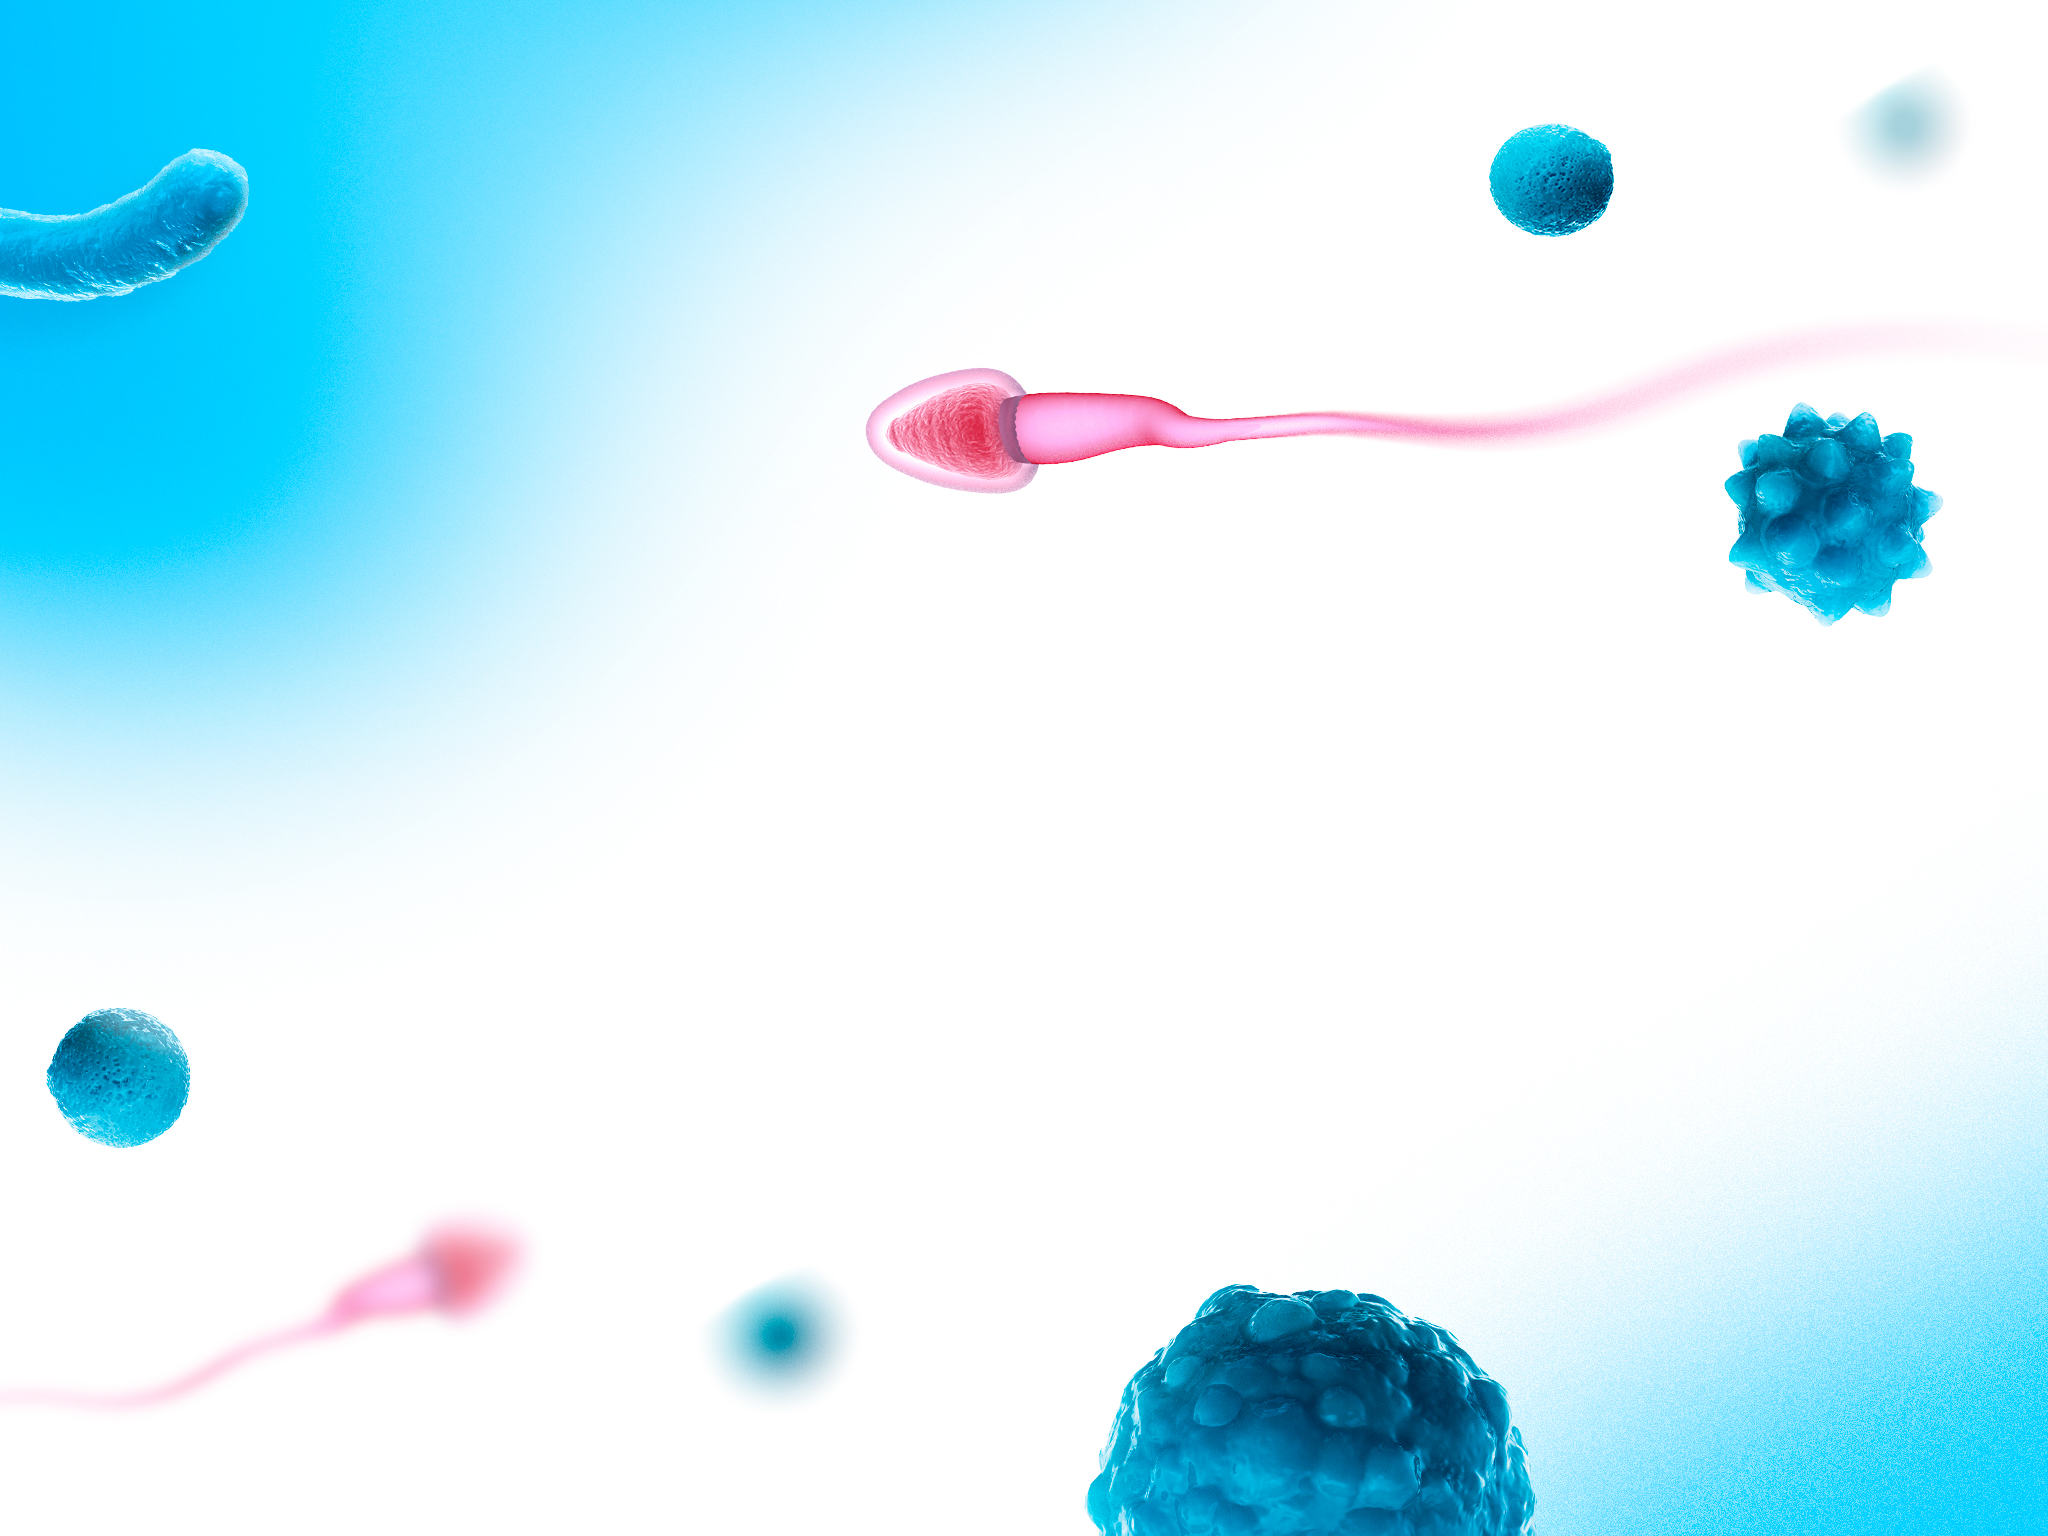
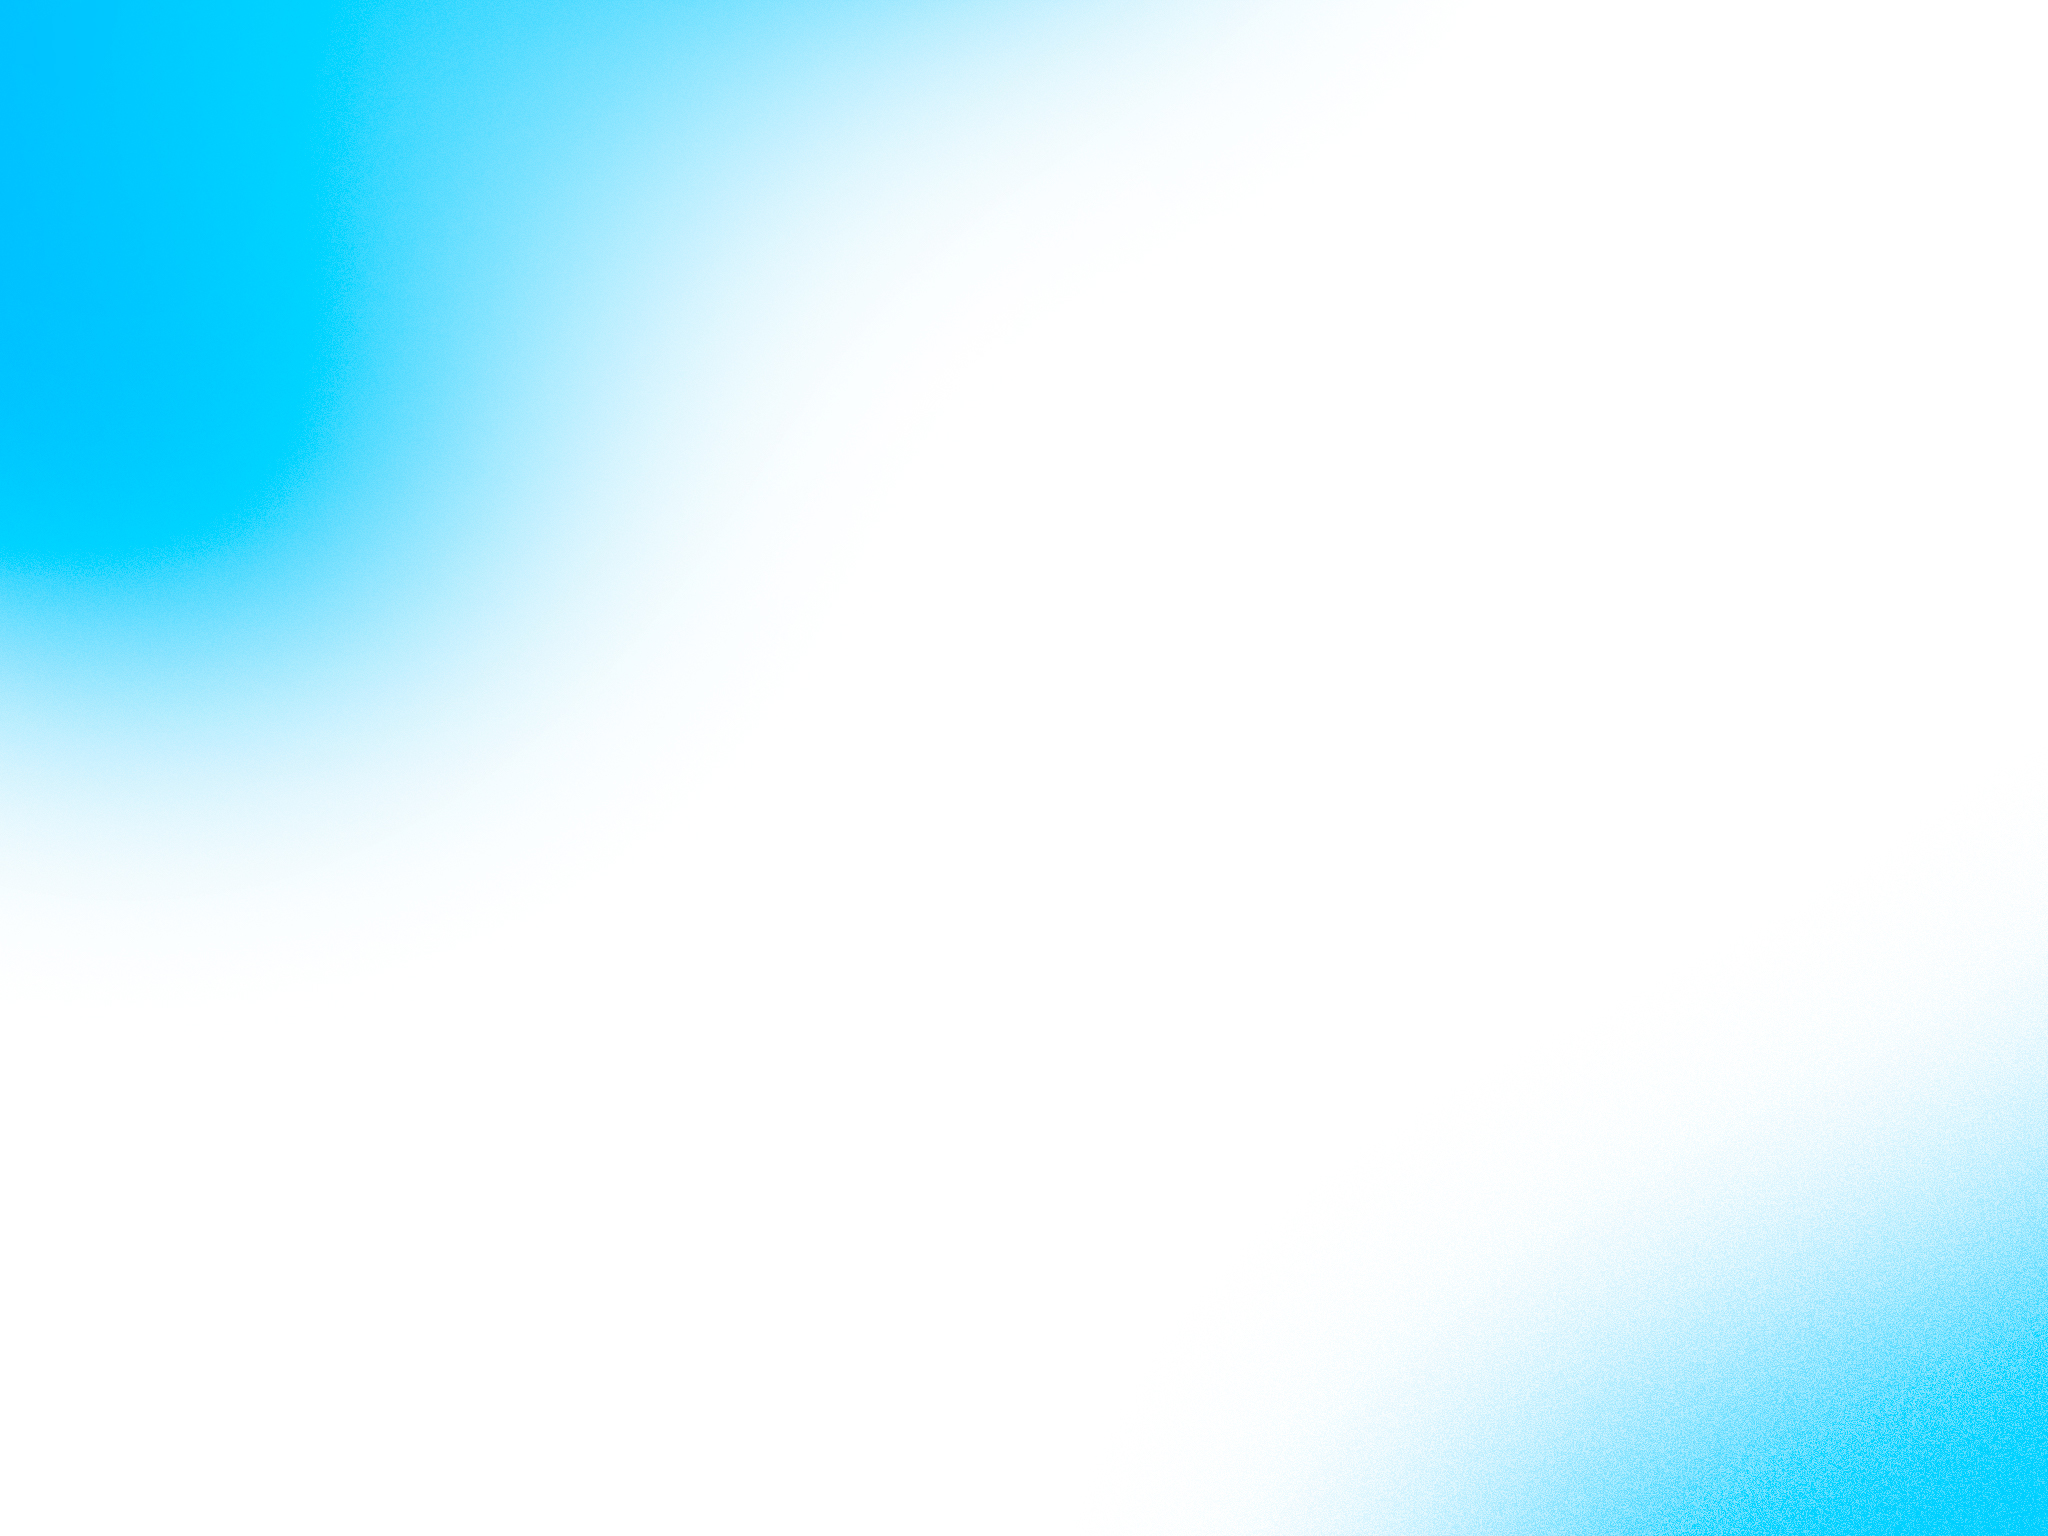
add Home page animation

diff --git a/app/src/pages/Home/Home.module.scss b/app/src/pages/Home/Home.module.scss
@@ -4,6 +4,8 @@
 
 .content {
   padding: 162px 0 0 67px;
+  position: relative;
+  z-index: 30;
 }
 
 .text {
@@ -35,4 +37,119 @@
   position: absolute;
   bottom: 17px;
   right: 109px;
+}
+
+.decorImg {
+  position: absolute;
+
+  animation-duration: 3s;
+  animation-timing-function: linear;
+  animation-iteration-count: infinite;
+  animation-direction: alternate;
+}
+
+.decorImg1 {
+  top: 9%;
+  left: 0;
+  width: 128px;
+}
+
+.decorImg2 {
+  top: 8%;
+  right: 21%;
+  width: 62px;
+
+  animation-name: animDecor2;
+  animation-duration: 4s;
+}
+
+.decorImg3 {
+  top: 4%;
+  right: 3%;
+  width: 71px;
+}
+
+.decorImg4 {
+  top: 20%;
+  right: 0px;
+  z-index: 40;
+  width: 592px;
+}
+
+.decorImg5 {
+  top: 16%;
+  right: 5%;
+  z-index: 50;
+  width: 110px;
+
+  animation-name: animDecor5;
+  animation-duration: 12s;
+  animation-direction: normal;
+}
+
+.decorImg6 {
+  bottom: 25%;
+  left: 2%;
+  width: 73px;
+
+  animation-name: animDecor6;
+}
+
+.decorImg7 {
+  bottom: 0;
+  left: 0;
+  width: 280px;
+}
+
+.decorImg8 {
+  bottom: 8%;
+  left: 34%;
+  width: 85px;
+}
+
+.decorImg9 {
+  bottom: -13%;
+  right: 25%;
+  width: 228px;
+
+  animation-name: animDecor9;
+}
+
+@keyframes animDecor2 {
+  0% {
+    transform: translate3d(0, 0, 0) scale(1);
+  }
+  100% {
+    transform: translate3d(30%, -2%, 0) scale(1.1);
+  }
+}
+
+@keyframes animDecor5 {
+  0% {
+    transform: rotate(0deg) translate3d(-20%, -20%, 0);
+  }
+  100% {
+    transform: rotate(360deg) translate3d(-20%, -20%, 0);
+  }
+}
+
+@keyframes animDecor6 {
+  0% {
+    transform: translate3d(0, 0, 0);
+  }
+  100% {
+    transform: translate3d(60%, 60%, 0);
+  }
+}
+
+@keyframes animDecor9 {
+  0% {
+    transform: translate3d(0, 0, 0) scale(1);
+  }
+  50% {
+    transform: translate3d(-3%, 5%, 0) scale(1.1);
+  }
+  100% {
+    transform: translate3d(-7%, -7%, 0) scale(0.95);
+  }
 }

diff --git a/app/src/pages/Home/index.jsx b/app/src/pages/Home/index.jsx
@@ -26,6 +26,51 @@ const Home = ({ changeActivePage }) => {
           </div>
         </div>
       </div>
+      <img
+        className={`${styles.decorImg} ${styles.decorImg1}`}
+        src="../../../images/content/HomePage/1.png"
+        alt=""
+      />
+      <img
+        className={`${styles.decorImg} ${styles.decorImg2}`}
+        src="../../../images/content/HomePage/2.png"
+        alt=""
+      />
+      <img
+        className={`${styles.decorImg} ${styles.decorImg3}`}
+        src="../../../images/content/HomePage/3.png"
+        alt=""
+      />
+      <img
+        className={`${styles.decorImg} ${styles.decorImg4}`}
+        src="../../../images/content/HomePage/4.png"
+        alt=""
+      />
+      <img
+        className={`${styles.decorImg} ${styles.decorImg5}`}
+        src="../../../images/content/HomePage/5.png"
+        alt=""
+      />
+      <img
+        className={`${styles.decorImg} ${styles.decorImg6}`}
+        src="../../../images/content/HomePage/6.png"
+        alt=""
+      />
+      <img
+        className={`${styles.decorImg} ${styles.decorImg7}`}
+        src="../../../images/content/HomePage/7.png"
+        alt=""
+      />
+      <img
+        className={`${styles.decorImg} ${styles.decorImg8}`}
+        src="../../../images/content/HomePage/8.png"
+        alt=""
+      />
+      <img
+          className={`${styles.decorImg} ${styles.decorImg9}`}
+          src="../../../images/content/HomePage/9.png"
+          alt=""
+        />
     </div>
   );
 };

diff --git a/app/src/App.jsx b/app/src/App.jsx
@@ -8,7 +8,7 @@ import SecondPage from "./pages/SecondPage";
 import ThirdPage from "./pages/ThirdPage";
 
 const App = () => {
-  const [activePage, setActivePage] = useState(2);
+  const [activePage, setActivePage] = useState(0);
 
   const changeActivePage = (index) => {
     setActivePage(index);
